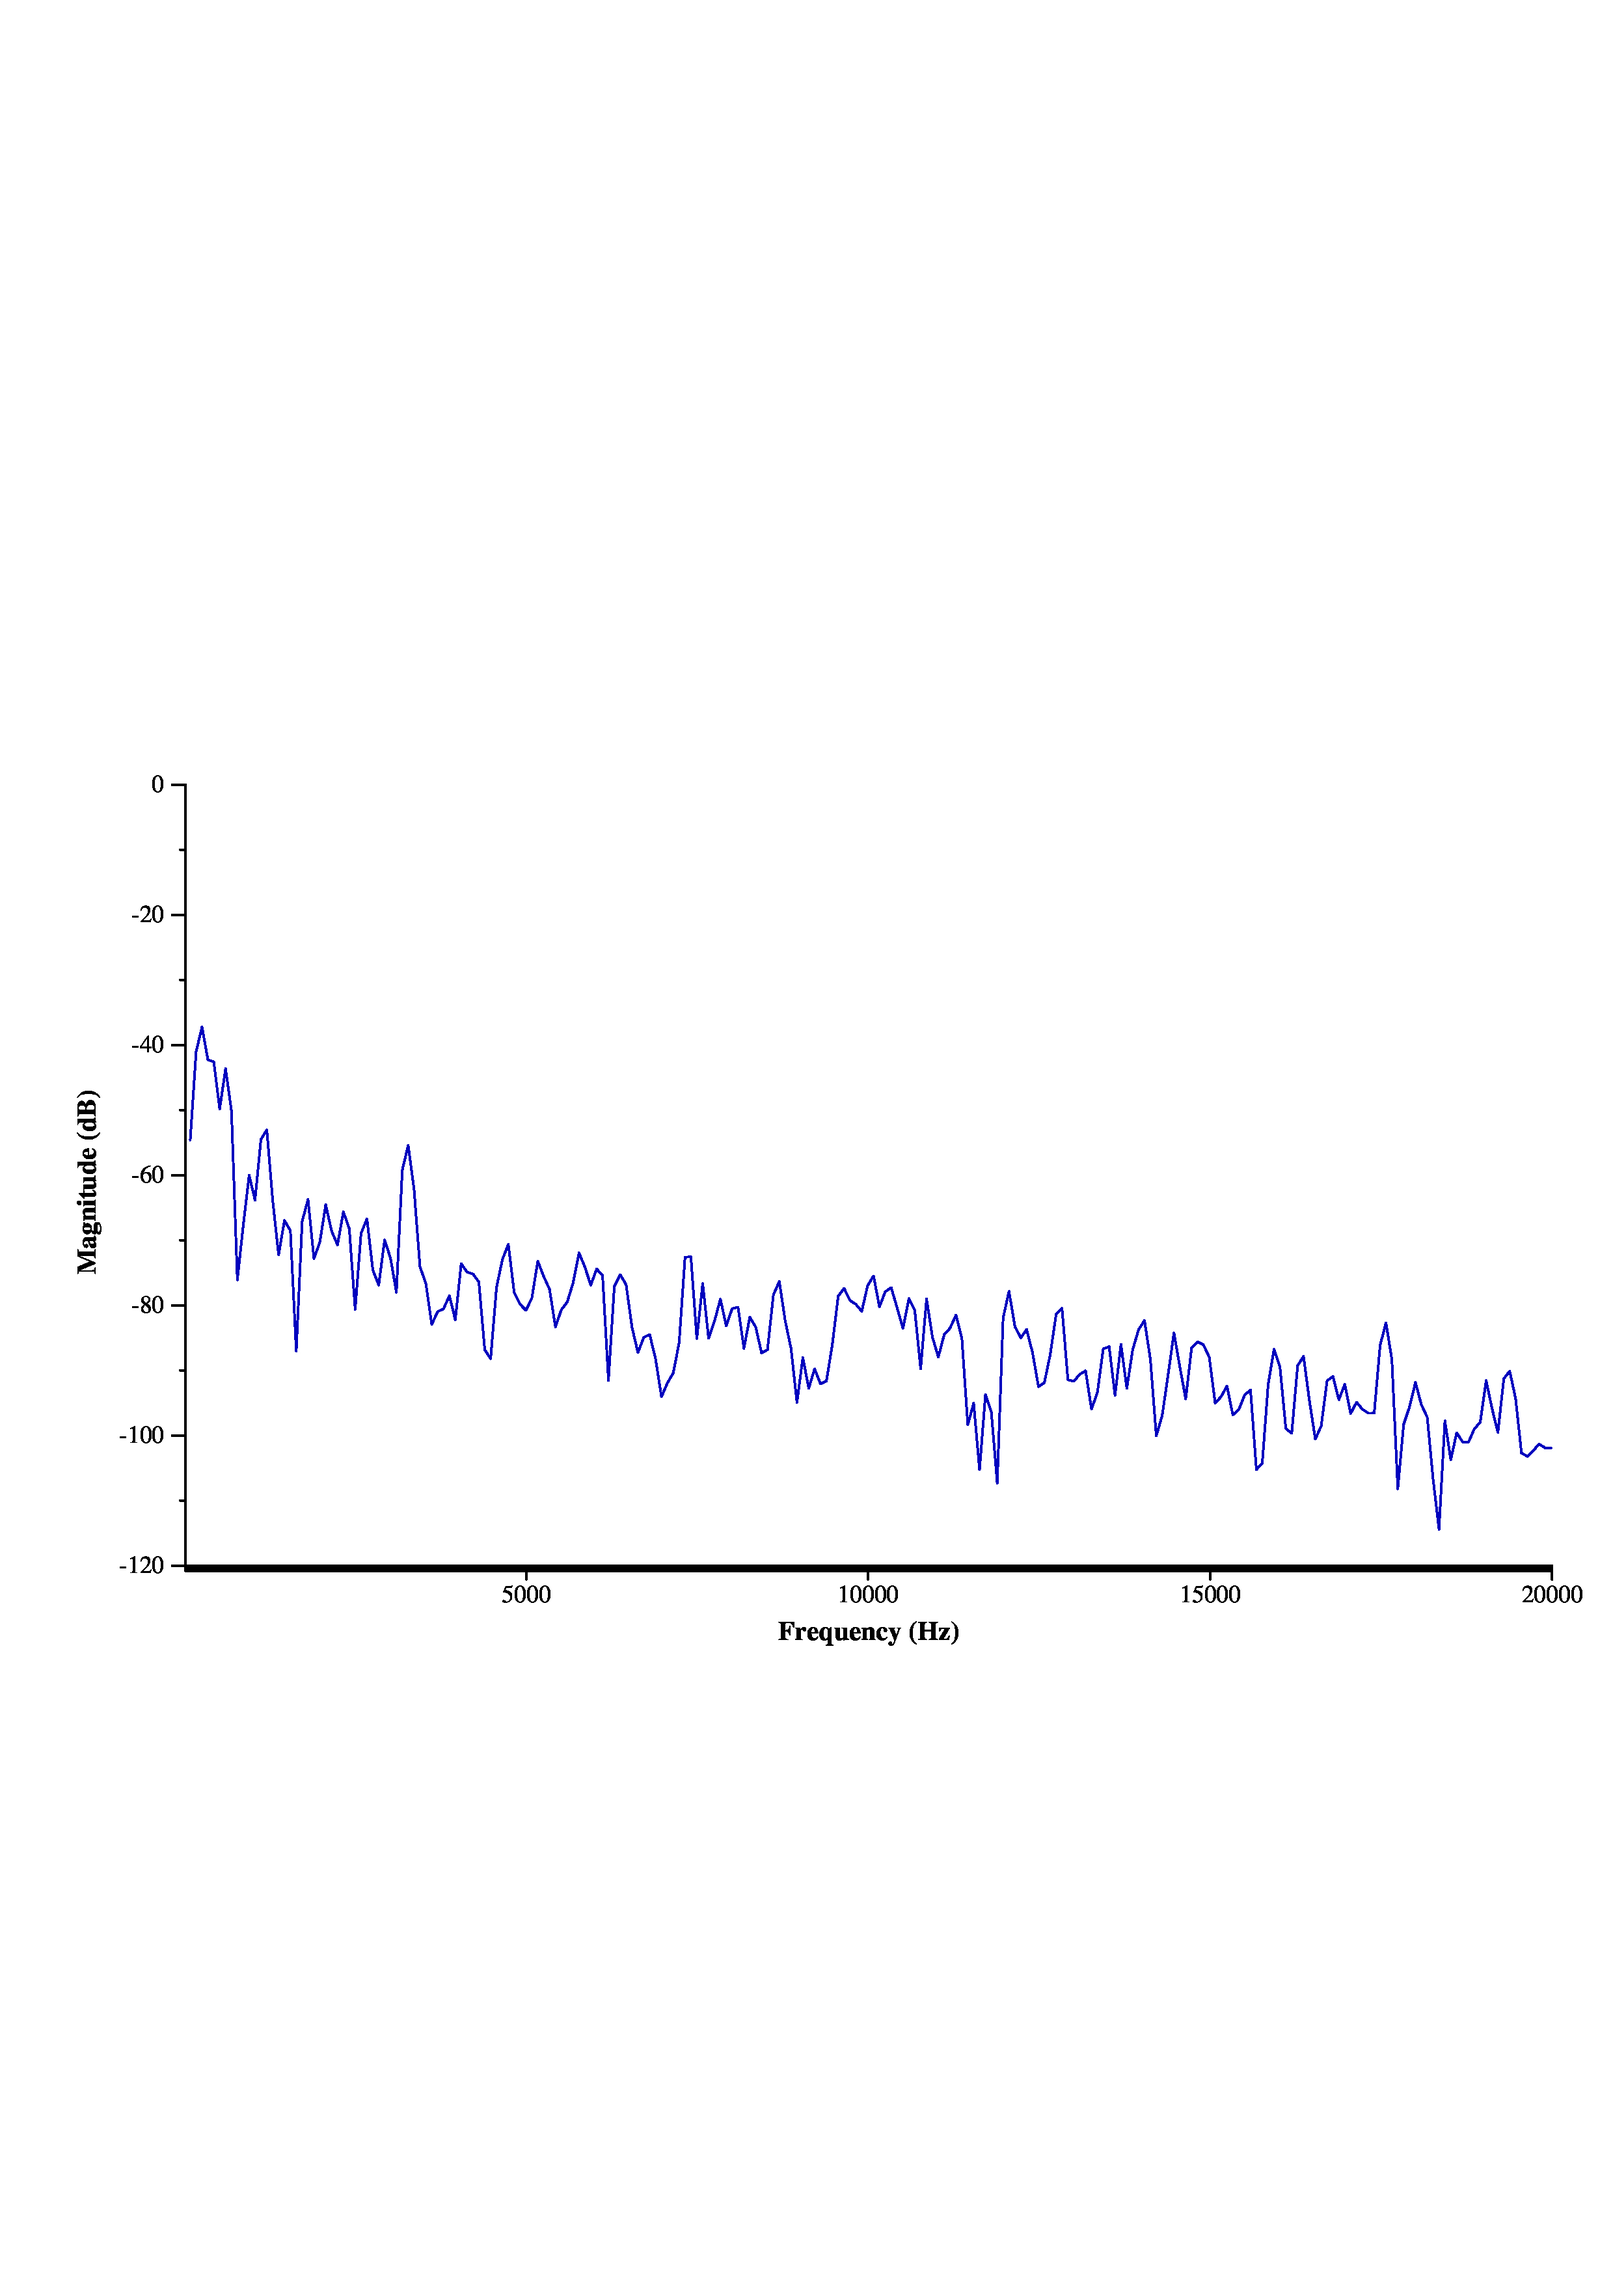
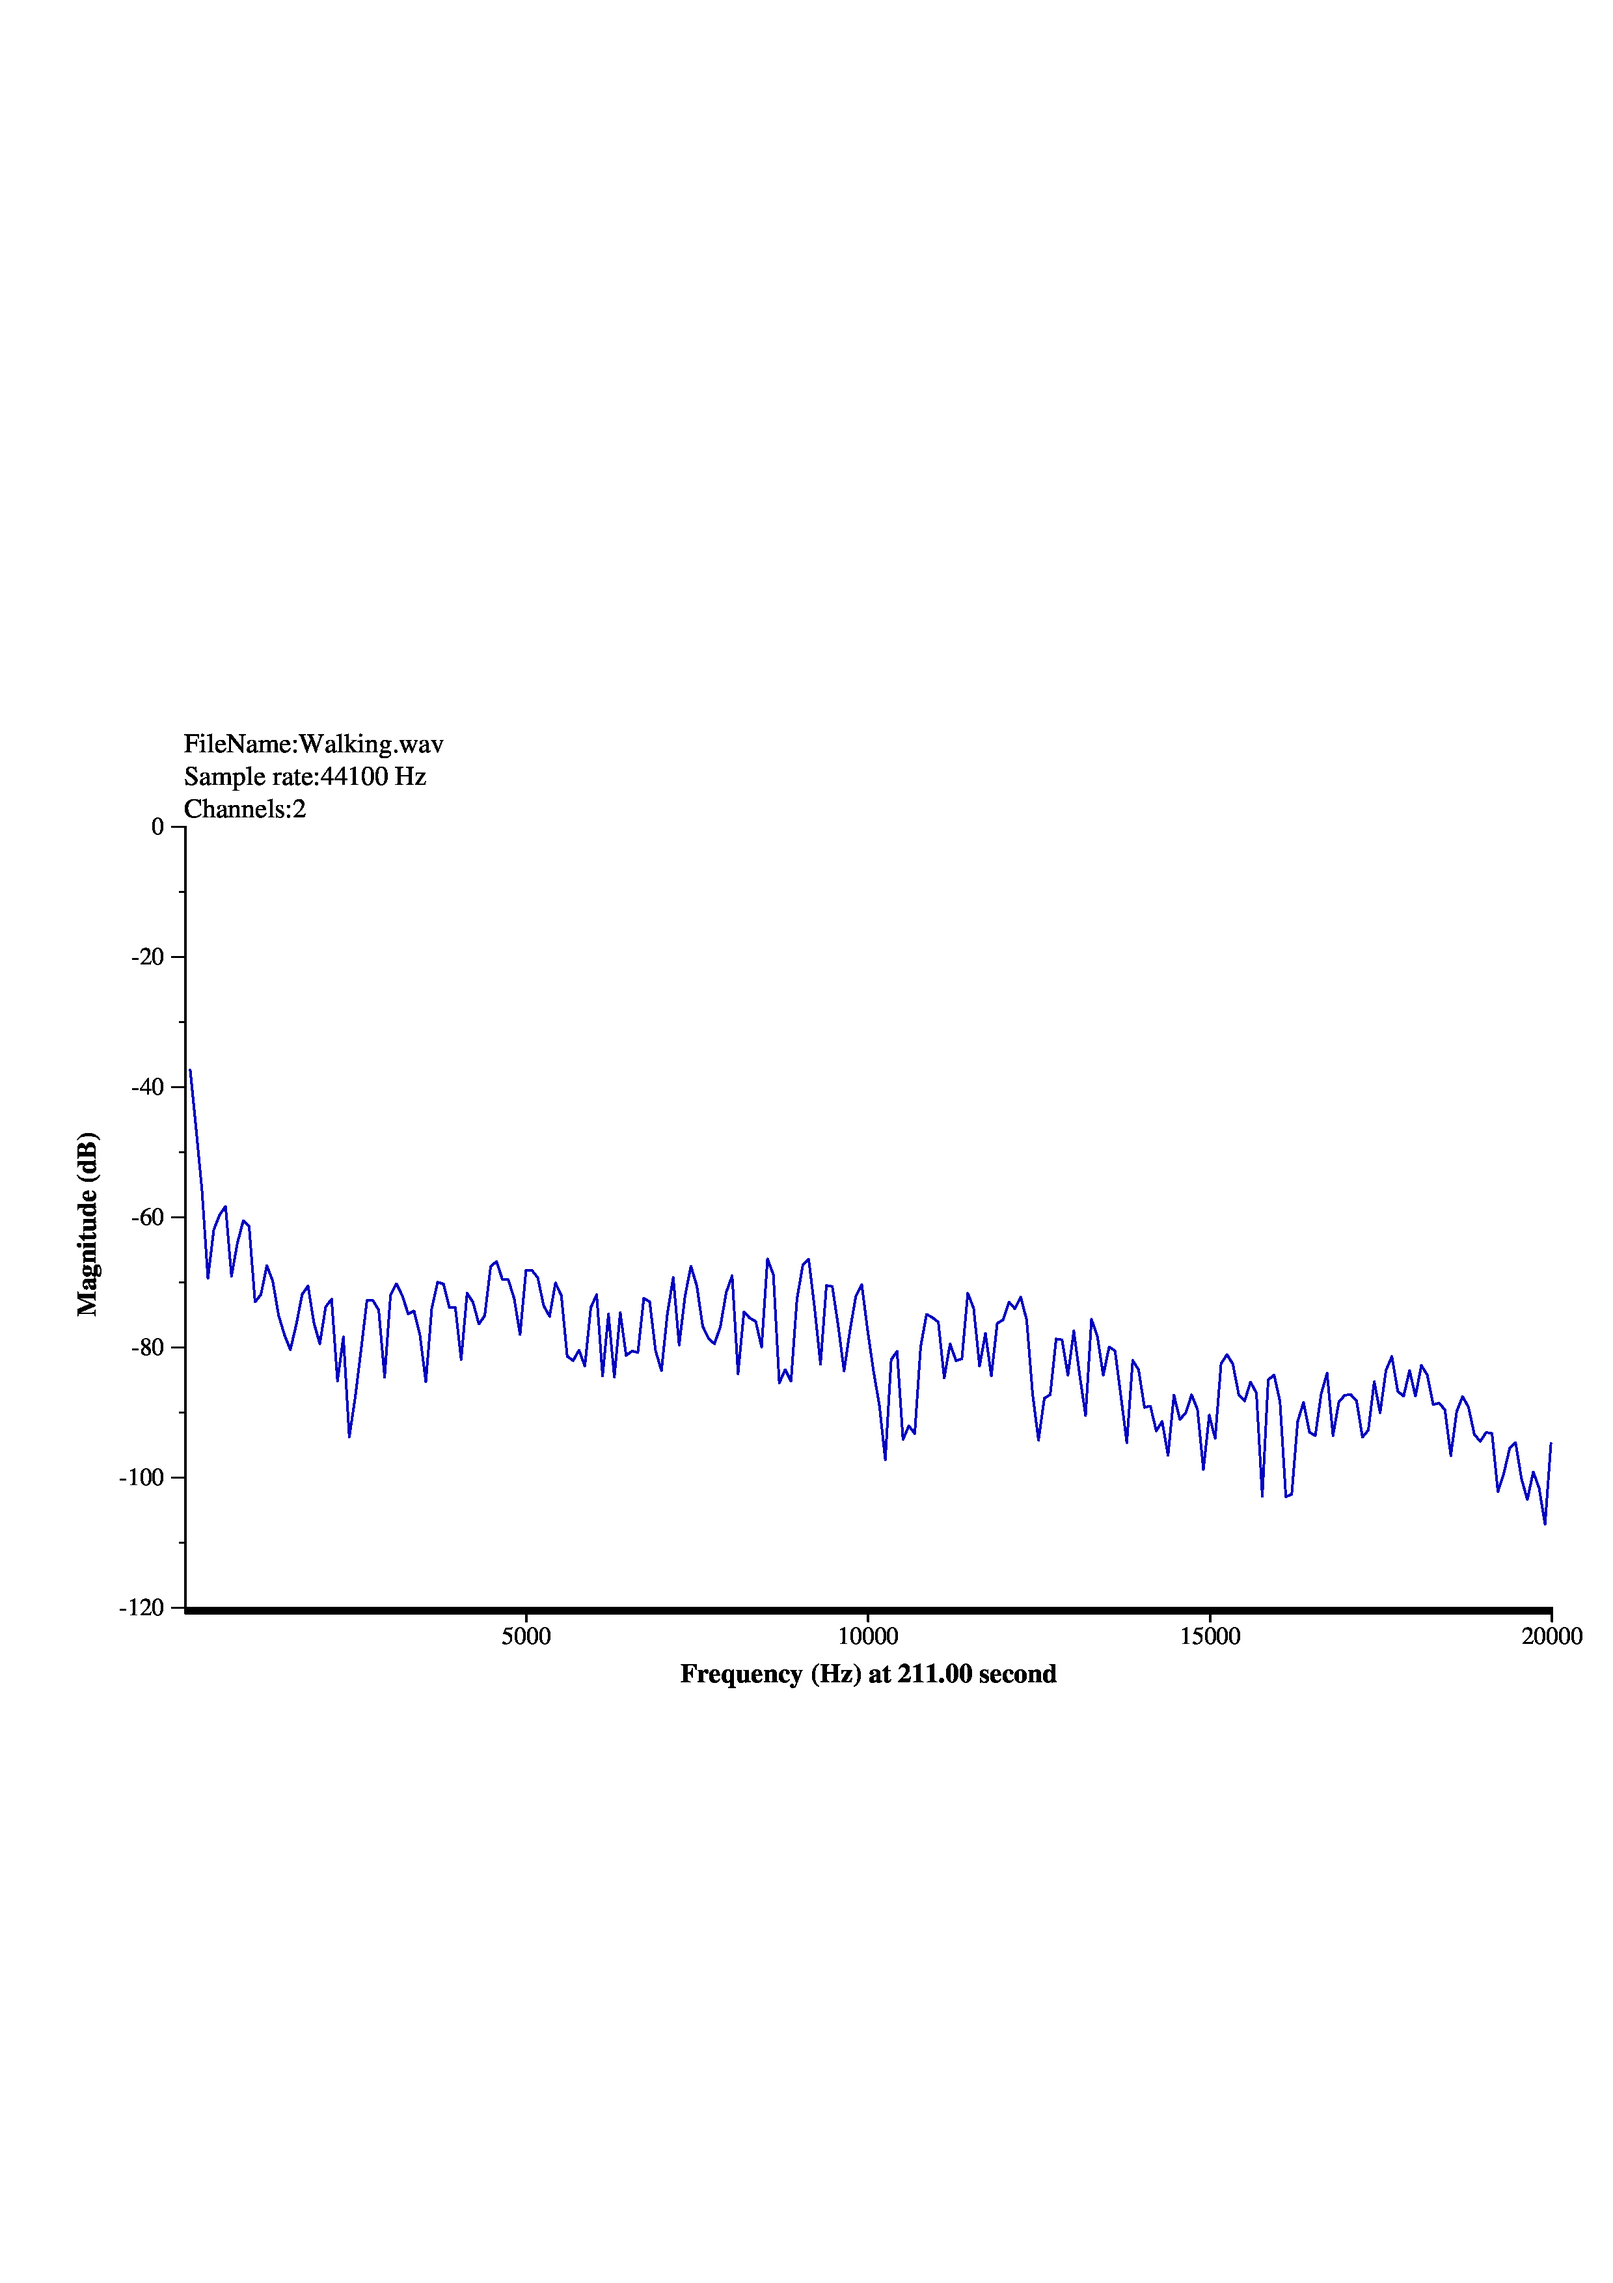
main clean up

diff --git a/src/main.cpp b/src/main.cpp
@@ -1,41 +1,40 @@
+/* Name: Jiawei Chen
+* Netid: jchen125
+* COSC: 594 Lab 1-Jgraph
+* Mar 3rd, 2024
+*
+* This program will output time domain and frequency domain graph jgraph command file based on input audio file.
+*/
+
 #include <stdio.h>
 #include <stdlib.h>
 #include <string.h>
 #include <math.h>
 #include <limits.h>
 
-
 #include "sndfile.hh"
 #include "fftw3.h"
 
 #define SPECTRO_FREQ_START 20
 #define SPECTRO_FREQ_END 20000
-
 #define BUFFER_LEN 1024
 #define MAX_CHANNELS 2
 #define FFT_SIZE 512
 #define SPECTRO_FREQ_START 20
 #define SPECTRO_FREQ_END 20000
+
 #define MIN(a, b) ((a) < (b) ? (a) : (b))
 #define MAX(a, b) ((a) > (b) ? (a) : (b))
 
 typedef struct
 {
-	int frame_num;  // Number of elements in our FFT output to display from the start index
-	SNDFILE* snd_file; // the file
-	SF_INFO sf_info;	  // information about the file
+	double target_second;  // Target time for frequency graph
+	const char* base_name; // File name without path
+	SNDFILE* snd_file;
+	SF_INFO sf_info;	  
+}audio_data;
 
-} audio_data;
-
-double* input_buf;
-
-// Function to apply a Hanning window to reduce spectral leakage
-void apply_hanning_window(double *data, int size) {
-    for (int i = 0; i < size; i++) {
-        data[i] *= 0.5 * (1 - cos(2 * M_PI * i / (size - 1)));
-    }
-}
-
+//Read audio file using libsndfile, extract audio data into input_buf and initialize audio_data struct
 void read_audio(const char *in_file, audio_data *spectro_data, double **input_buf) {
 	memset(&(spectro_data->sf_info), 0, sizeof(SF_INFO));
 
@@ -51,12 +50,22 @@ void read_audio(const char *in_file, audio_data *spectro_data, double **input_bu
         exit(2);
     }
 
+	// Extracting just the file name from the path
+    spectro_data->base_name = strrchr(in_file, '/');
+    if (spectro_data->base_name) {
+        spectro_data->base_name++; 
+    } else {
+        spectro_data->base_name = in_file; 
+    }
+
     *input_buf = (double *)malloc(sizeof(double) * spectro_data->sf_info.frames * spectro_data->sf_info.channels);
     sf_readf_double(spectro_data->snd_file, *input_buf, spectro_data->sf_info.frames);
     sf_close(spectro_data->snd_file);
 }
 
-void time_domain(const char* filename, const audio_data* spectro_data, double *input_buf) {
+
+
+void time_domain(const audio_data* spectro_data, double *input_buf) {
     FILE *file = fopen("src/time_domain.jgr", "w");
     if (!file) {
         perror("Failed to open file");
@@ -69,19 +78,18 @@ void time_domain(const char* filename, const audio_data* spectro_data, double *i
     int downsampling_rate = MAX(1, frames / target_points);
 
     fprintf(file, "newgraph\n\n");
-    double hash_interval = duration / 10;
     fprintf(file, "xaxis\n  min 0 max %f\n  size 7\n  mhash 1\n  label : Time (s)\n\n", duration);
     fprintf(file, "yaxis\n  min 0 max 1\n  size 4\n  hash 0.1\n  hash_labels\n  mhash 5\n  label : Amplitude\n\n");
 
     fprintf(file, "newline color 0 0 .75\n");
 
     for (int i = 0; i < target_points; i++) {
-        double maxAmplitude = 0.0; // Initialize with minimal value
+        double maxAmplitude = 0.0; 
         for (int j = 0; j < downsampling_rate && (i * downsampling_rate + j) < frames; j++) {
             int idx = i * downsampling_rate + j;
-            double currentAmplitude = fabs(input_buf[idx]); // Get the absolute value for amplitude
+            double currentAmplitude = fabs(input_buf[idx]); 
             if (currentAmplitude > maxAmplitude) {
-                maxAmplitude = currentAmplitude; // Capture the peak amplitude within the segment
+                maxAmplitude = currentAmplitude; 
             }
         }
 
@@ -90,15 +98,7 @@ void time_domain(const char* filename, const audio_data* spectro_data, double *i
         fprintf(file, "  pts %.3f %.2f\n", time, normalizedAmplitude);
     }
 
-	// Extracting just the file name from the path
-    const char *base_name = strrchr(filename, '/');
-    if (base_name) {
-        base_name++; 
-    } else {
-        base_name = filename; 
-    }
-
-	fprintf(file, "newstring hjl vjt x 0.02 y 1.2 fontsize 10 : FileName:%s\n", base_name);
+	fprintf(file, "newstring hjl vjt x 0.02 y 1.2 fontsize 10 : FileName:%s\n", spectro_data->base_name);
     fprintf(file, "newstring hjl vjt x 0.02 y 1.15 fontsize 10 : Sample rate:%d Hz\n", spectro_data->sf_info.samplerate);
     fprintf(file, "newstring hjl vjt x 0.02 y 1.1 fontsize 10 : Channels:%d\n", spectro_data->sf_info.channels);
     fprintf(file, "newstring hjl vjt x 0.02 y 1.05 fontsize 10 : Duration:%.1f seconds\n", ceil(duration));
@@ -106,8 +106,15 @@ void time_domain(const char* filename, const audio_data* spectro_data, double *i
     fclose(file);
 }
 
-void frequency_domain(audio_data* spectro_data, double target_second, double *input_buf) {
-    int start_index = target_second * spectro_data->sf_info.samplerate;
+// Function to apply a Hanning window to reduce spectral leakage
+void apply_hanning_window(double *data, int size) {
+    for (int i = 0; i < size; i++) {
+        data[i] *= 0.5 * (1 - cos(2 * M_PI * i / (size - 1)));
+    }
+}
+
+void frequency_domain(audio_data* spectro_data, double *input_buf) {
+    int start_index = spectro_data->target_second * spectro_data->sf_info.samplerate;
     double *windowed_data = (double*) malloc(sizeof(double) * FFT_SIZE);
     fftw_complex *out = (fftw_complex*) fftw_malloc(sizeof(fftw_complex) * (FFT_SIZE/2 + 1));
     fftw_plan p = fftw_plan_dft_r2c_1d(FFT_SIZE, windowed_data, out, FFTW_ESTIMATE);
@@ -127,7 +134,7 @@ void frequency_domain(audio_data* spectro_data, double target_second, double *in
     fftw_execute(p);
 
 	fprintf(file, "newgraph\n\n");
-    fprintf(file, "xaxis\n  min %d max %d\n  mhash 500\n  hash_labels\n  size 7\n  label : Frequency (Hz)\n\n", SPECTRO_FREQ_START, SPECTRO_FREQ_END);
+    fprintf(file, "xaxis\n  min %d max %d\n  mhash 500\n  hash_labels\n  size 7\n  label : Frequency (Hz) at %.2f second\n\n", SPECTRO_FREQ_START, SPECTRO_FREQ_END, spectro_data->target_second);
     fprintf(file, "yaxis\n  min -120 max 0\n  hash 20\n  precision 0\n  size 4\n  label : Magnitude (dB)  \n\n");
     fprintf(file, "newline color 0 0 .75\n");
 
@@ -140,6 +147,10 @@ void frequency_domain(audio_data* spectro_data, double target_second, double *in
             fprintf(file, "  pts %.2f %.2f\n", freq, magnitude_dB);
         }
     }
+
+	fprintf(file, "newstring hjl vjt x 0.02 y 14\n  fontsize 10 : FileName:%s\n", spectro_data->base_name);
+    fprintf(file, "newstring hjl vjt x 0.02 y 9\n  fontsize 10 : Sample rate:%d Hz\n", spectro_data->sf_info.samplerate);
+    fprintf(file, "newstring hjl vjt x 0.02 y 4\n  fontsize 10 : Channels:%d\n", spectro_data->sf_info.channels);
 
     fclose(file);
     fftw_destroy_plan(p);
@@ -154,7 +165,7 @@ int main(int argc, char **argv) {
         return 1;
     }
 
-    char *mode = argv[1];  // Mode is either -t or -f.
+    char *mode = argv[1]; 
     char *filename = argv[2];
     audio_data *spectro_data = (audio_data *)malloc(sizeof(audio_data));
     double *input_buf = NULL;
@@ -166,25 +177,28 @@ int main(int argc, char **argv) {
             return 1;
         }
         read_audio(filename, spectro_data, &input_buf);
-        time_domain(filename, spectro_data, input_buf);
-    } else if (strcmp(mode, "-f") == 0) {
+        time_domain(spectro_data, input_buf);
+    } 
+	else if (strcmp(mode, "-f") == 0) {
         if (argc != 4) {
             printf("Usage: %s -f <filename> <second>\n", argv[0]);
             free(spectro_data);
             return 1;
         }
 
-        double target_second = atof(argv[3]);
-        if (target_second < 0 || target_second * spectro_data->sf_info.samplerate >= spectro_data->sf_info.frames) {
+        spectro_data->target_second = atof(argv[3]);
+		read_audio(filename, spectro_data, &input_buf);
+
+        if (spectro_data->target_second < 0 || spectro_data->target_second * spectro_data->sf_info.samplerate >= spectro_data->sf_info.frames) {
             fprintf(stderr, "Invalid second specified.\n");
             free(spectro_data);
             free(input_buf);
             return 1;
         }
-
-        read_audio(filename, spectro_data, &input_buf);
-        frequency_domain(spectro_data, target_second, input_buf);
-    } else {
+        
+        frequency_domain(spectro_data, input_buf);
+    } 
+	else {
         printf("Invalid mode. Use -t for time domain analysis or -f for frequency domain analysis.\n");
         free(spectro_data);
         return 1;
